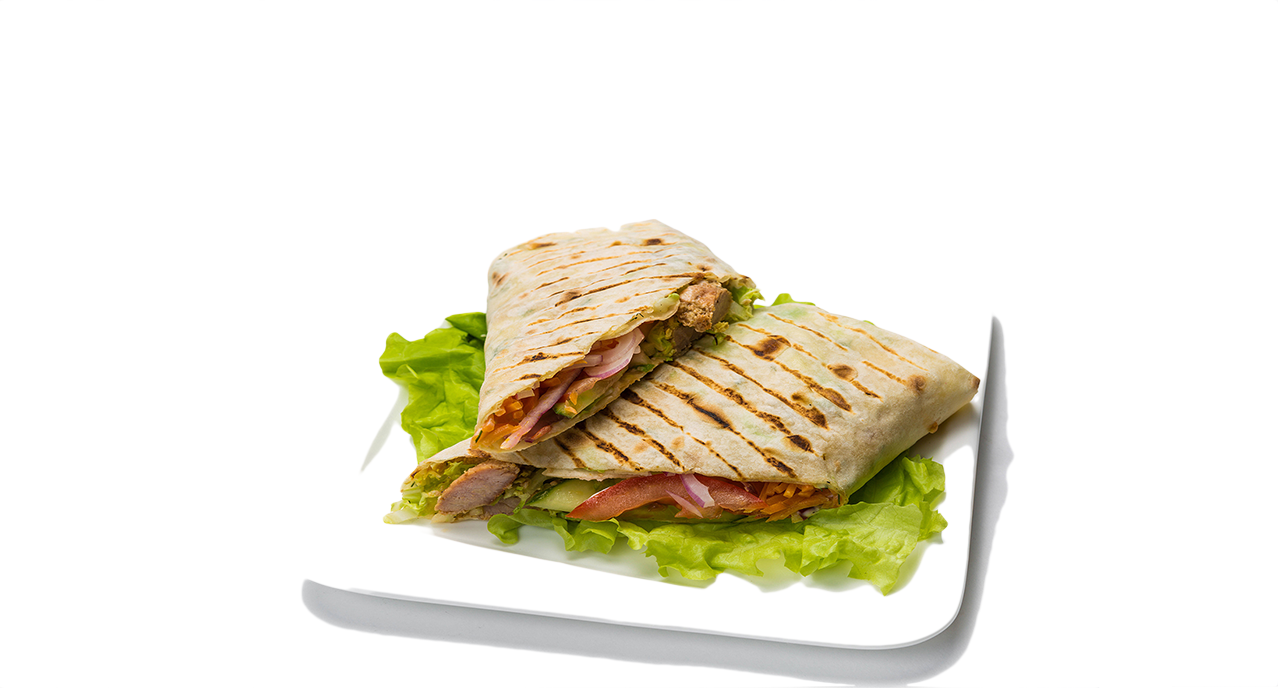
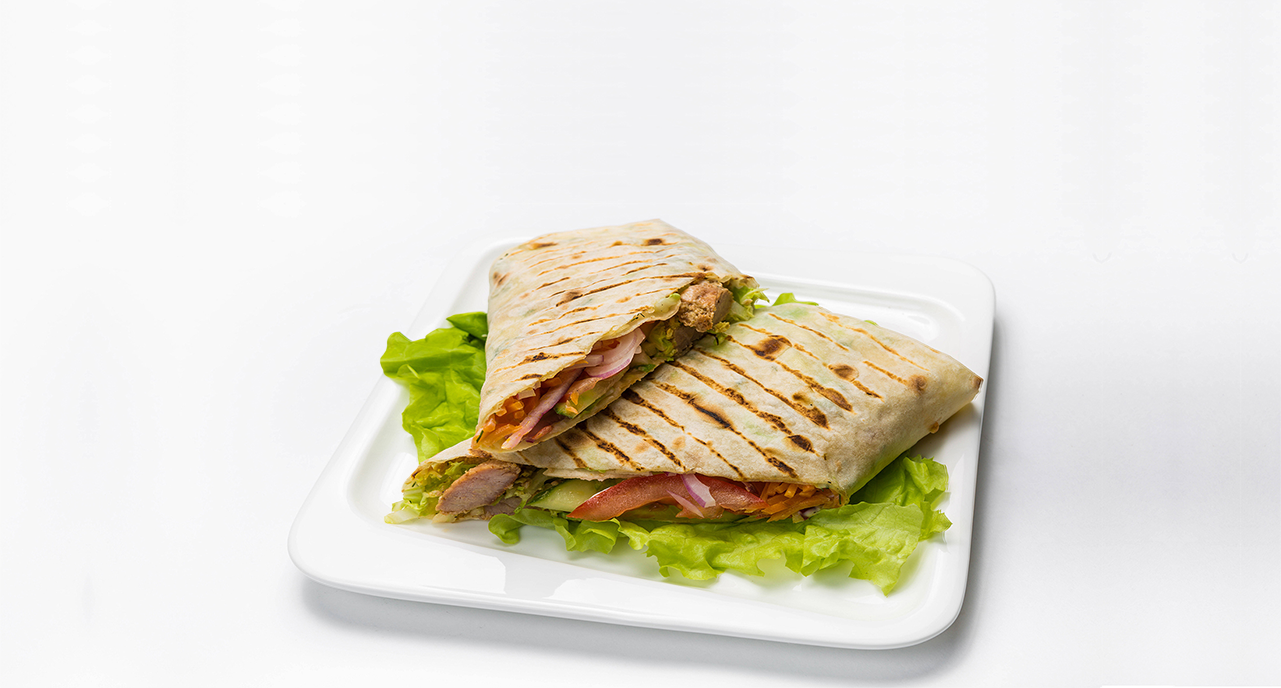
13 commit

diff --git a/css/style.css b/css/style.css
@@ -233,7 +233,6 @@
   margin-left: 5px;
 }
 .new-menu {
-  background-color: #f3f3f3;
   height: 683px;
   overflow: hidden;
   position: relative;
@@ -255,7 +254,7 @@
 .new-menu .doner-2 {
   position: absolute;
   top: 310px;
-  left: 282px;
+  left: 284px;
   z-index: 20;
 }
 @media only screen and (orientation: portrait) and (min-width: 768px) and (max-width: 991px) {
@@ -267,6 +266,7 @@
 .new-menu .taste {
   position: absolute;
   top: 0;
+  z-index: 15;
   right: 98px;
 }
 @media only screen and (orientation: portrait) and (min-width: 768px) and (max-width: 991px) {
@@ -289,6 +289,7 @@
 .new-menu .new-menu__text {
   position: absolute;
   top: 35px;
+  z-index: 20;
   left: 137px;
 }
 @media only screen and (orientation: portrait) and (min-width: 768px) and (max-width: 991px) {
@@ -550,6 +551,8 @@
   display: flex;
   -ms-flex-wrap: wrap;
       flex-wrap: wrap;
+  -ms-flex-pack: center;
+      justify-content: center;
 }
 @media only screen and (orientation: portrait) and (min-width: 768px) and (max-width: 991px) {
   .our-menu .our-menu__body > * {
@@ -1257,12 +1260,7 @@
 .review .review__thumbnail {
   overflow: hidden;
   height: 140px;
-  width: 150px;
-}
-@media only screen and (orientation: portrait) and (min-width: 768px) and (max-width: 991px) {
-  .review .review__thumbnail {
-    width: 220px;
-  }
+  width: 220px;
 }
 .review .review__thumbnail img {
   position: relative;

diff --git a/index.html b/index.html
@@ -81,7 +81,7 @@
       </div>
     </div>
     <div class="new-menu">
-      <div class="container-main"><img class="doner" src="img/new-menu/doner.png" alt=""/><img class="doner-2" src="img/new-menu/doner-2.png" alt=""/><img class="taste" src="img/new-menu/new-menu_taste.png" alt=""/><img class="circle" src="img/new-menu/new-menu_circle.png" alt=""/>
+      <div class="container-main"><img class="doner" src="img/new-menu/Doner.png" alt=""/><img class="doner-2" src="img/new-menu/doner-2.png" alt=""/><img class="taste" src="img/new-menu/new-menu_Taste.png" alt=""/><img class="circle" src="img/new-menu/new-menu_circle.png" alt=""/>
         <div class="new-menu__text">
           <p>Встречайте</p>
           <p>Новое меню</p>
